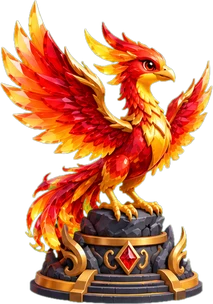
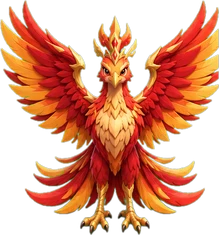
熔岩星換成五個熔岩神像（無底座），加岩漿裂紋心跳、火星、噴發、火山龜冒煙特效
Claude-Session: https://claude.ai/code/session_01E2utfFQBUZUAHLnSXfgdjb

diff --git a/components/city-scene.ts b/components/city-scene.ts
@@ -190,6 +190,7 @@ export function createCityScene(
     s.scale.set(w * ART_UNIT, h * ART_UNIT, 1);
     s.position.y = plinthOf(level, i);
     g.add(s);
+    g.userData.name = name;
     if (showcase) dressStage(g, level, w * ART_UNIT, h * ART_UNIT, plinthOf(level, i));
     const blob = new T.Mesh(new T.PlaneGeometry(w * ART_UNIT * 1.05, w * ART_UNIT * 0.8), new T.MeshBasicMaterial({ map: shadowTex, transparent: true, depthWrite: false, opacity: 0.55 }));
     blob.rotation.x = -Math.PI / 2;
@@ -383,6 +384,43 @@ export function createCityScene(
     x.stroke();
     return new T.CanvasTexture(c);
   })();
+  // 熔岩星: cracks of lava radiating out from under a statue (drawn white, tinted orange).
+  const crackTex = (() => {
+    const c = document.createElement("canvas");
+    c.width = c.height = 256;
+    const x = c.getContext("2d")!;
+    x.strokeStyle = "rgba(255,255,255,1)";
+    x.shadowColor = "rgba(255,255,255,1)";
+    x.shadowBlur = 10;
+    x.lineCap = "round";
+    let seed = 7;
+    const rnd = () => ((seed = (seed * 9301 + 49297) % 233280) / 233280);
+    const branch = (px: number, py: number, a: number, len: number, wdt: number, depth: number) => {
+      let cx = px, cy = py;
+      x.lineWidth = wdt;
+      x.beginPath();
+      x.moveTo(cx, cy);
+      const steps = 4;
+      for (let k = 0; k < steps; k++) {
+        a += (rnd() - 0.5) * 0.7;
+        cx += Math.cos(a) * (len / steps);
+        cy += Math.sin(a) * (len / steps);
+        x.lineTo(cx, cy);
+      }
+      x.stroke();
+      if (depth > 0) {
+        branch(cx, cy, a + 0.5, len * 0.55, wdt * 0.6, depth - 1);
+        branch(cx, cy, a - 0.5, len * 0.5, wdt * 0.6, depth - 1);
+      }
+    };
+    for (let k = 0; k < 7; k++) branch(128, 128, (k / 7) * Math.PI * 2 + rnd() * 0.4, 62, 7, 1);
+    const g = x.createRadialGradient(128, 128, 0, 128, 128, 40);
+    g.addColorStop(0, "rgba(255,255,255,0.9)");
+    g.addColorStop(1, "rgba(255,255,255,0)");
+    x.fillStyle = g;
+    x.fillRect(0, 0, 256, 256);
+    return new T.CanvasTexture(c);
+  })();
   // An aurora curtain: soft vertical streaks fading at top and bottom.
   const auroraTex = (() => {
     const c = document.createElement("canvas");
@@ -482,7 +520,7 @@ export function createCityScene(
     return new T.CanvasTexture(c);
   })();
   const STAGE_COLOUR = [0xffffff, 0xb9a8ff, 0x58c8ff, 0xa45cff, 0xffc21a];
-  type Aura = { obj: any; kind: "ring" | "halo" | "beam" | "mote" | "steam" | "spark" | "jelly" | "sprinkle" | "bubble" | "glint" | "dust" | "snow" | "aurora"; base: number; phase: number; r?: number; y?: number; speed?: number; vx?: number; vy?: number };
+  type Aura = { obj: any; kind: "ring" | "halo" | "beam" | "mote" | "steam" | "spark" | "jelly" | "sprinkle" | "bubble" | "glint" | "dust" | "snow" | "aurora" | "ember" | "blob" | "smoke" | "crack"; base: number; phase: number; r?: number; y?: number; speed?: number; vx?: number; vy?: number };
   const auras: Aura[] = [];
   function dressStage(g: any, level: number, w: number, h: number, lift: number) {
     const colour = (theme.art?.stageColours ?? STAGE_COLOUR)[level - 1];
@@ -516,7 +554,17 @@ export function createCityScene(
     const candy = !!theme.art?.candy;
     const prism = !!theme.art?.prism;
     const frost = !!theme.art?.frost;
-    if (level >= (gears || candy || prism || frost ? 2 : 3)) {
+    const magma = !!theme.art?.magma;
+    if (magma && level >= 2) {
+      // Cracks of lava under the statue, throbbing like a heartbeat (no turning).
+      const size = r * (level >= 5 ? 3.2 : level >= 4 ? 2.8 : 2.4) * 0.7;
+      const crack = new T.Mesh(new T.PlaneGeometry(size, size), new T.MeshBasicMaterial({ map: crackTex, color: 0xff7a1a, transparent: true, depthWrite: false, blending: T.AdditiveBlending, opacity: 0.8 }));
+      crack.rotation.x = -Math.PI / 2;
+      crack.rotation.z = Math.random() * 6;
+      crack.position.y = 0.015;
+      g.add(crack);
+      auras.push({ obj: crack, kind: "crack", base: level >= 4 ? 1 : 0.75, phase: Math.random() * 6 });
+    } else if (level >= (gears || candy || prism || frost ? 2 : 3)) {
       const size = r * (level >= 5 ? 3.0 : level >= 4 ? 2.6 : 2.3) * (gears || candy || prism || frost ? 0.6 : 1);
       const ring = new T.Mesh(
         new T.PlaneGeometry(size, size),
@@ -555,7 +603,7 @@ export function createCityScene(
       auras.push({ obj: beam, kind: "beam", base: 0.3, phase: Math.random() * 6 });
     }
     // Sparkles circling (4: a few, 5: many).
-    const motes = candy || prism || frost ? 0 : level >= 5 ? 14 : level >= 4 ? 6 : level >= 3 ? 3 : 0;
+    const motes = candy || prism || frost || magma ? 0 : level >= 5 ? 14 : level >= 4 ? 6 : level >= 3 ? 3 : 0;
     for (let k = 0; k < motes; k++) {
       const m = new T.Sprite(new T.SpriteMaterial({ map: haloTex, color: colour, transparent: true, depthWrite: false, blending: T.AdditiveBlending, opacity: 0.9 }));
       m.scale.setScalar(0.07 + Math.random() * 0.06);
@@ -566,6 +614,47 @@ export function createCityScene(
     if (candy) addCandy(g, level, w, h);
     if (prism) addPrism(g, level, w, h);
     if (frost) addFrost(g, level, w, h);
+    if (magma) addMagma(g, level, w, h);
+  }
+  function addMagma(g: any, level: number, w: number, h: number) {
+    // Embers: little sparks of fire drifting up in a zigzag, flickering.
+    const embers = level >= 5 ? 14 : level >= 4 ? 9 : level >= 3 ? 5 : 0;
+    for (let k = 0; k < embers; k++) {
+      const m = new T.Sprite(new T.SpriteMaterial({ map: haloTex, color: k % 3 ? 0xff8a2a : 0xffd34d, transparent: true, depthWrite: false, blending: T.AdditiveBlending, opacity: 0 }));
+      g.add(m);
+      auras.push({ obj: m, kind: "ember", base: 1, phase: Math.random(), r: (Math.random() - 0.5) * w * 1.1, y: h * (0.8 + Math.random() * 0.5), speed: 0.2 + Math.random() * 0.15, vx: Math.random() * 6 });
+    }
+    // Eruptions (4 up): every few seconds lava bursts up out of the cracks in blobs that arc and fall back.
+    if (level >= 4) {
+      const blobs = level >= 5 ? 9 : 6;
+      const every = 3.2 + Math.random() * 1.6, start = Math.random() * every;
+      for (let k = 0; k < blobs; k++) {
+        const m = new T.Sprite(new T.SpriteMaterial({ map: haloTex, color: k % 2 ? 0xff5a10 : 0xffb030, transparent: true, depthWrite: false, blending: T.AdditiveBlending, opacity: 0 }));
+        g.add(m);
+        const a = (k / blobs) * Math.PI * 2 + Math.random() * 0.5;
+        auras.push({ obj: m, kind: "blob", base: 1, phase: start, speed: every, r: Math.cos(a) * (0.6 + Math.random() * 0.6), vx: Math.sin(a) * (0.6 + Math.random() * 0.6), vy: 2.2 + Math.random() * 1.4, y: 0.12 + Math.random() * 0.08 });
+      }
+    }
+    // The turtle's volcano smokes and glows at the top (3 up).
+    const vent = theme.art?.vent;
+    const name = g.userData.name as string;
+    if (vent && name === vent.name && level >= 3) {
+      const [u, v] = vent.at[level - 3];
+      const flip = theme.art?.mirror?.includes(name) ? -1 : 1;
+      const anchor = new T.Group();
+      anchor.userData.off = [(u - 0.5) * w * flip, (1 - v - 0.04) * h];
+      g.add(anchor);
+      pins.push(anchor);
+      const glow = new T.Sprite(new T.SpriteMaterial({ map: haloTex, color: 0xff6a1a, transparent: true, depthWrite: false, blending: T.AdditiveBlending, opacity: 0.8 }));
+      glow.scale.setScalar(w * 0.32);
+      anchor.add(glow);
+      auras.push({ obj: glow, kind: "crack", base: 0.9, phase: 0 });
+      for (let k = 0; k < 6; k++) {
+        const m = new T.Sprite(new T.SpriteMaterial({ map: haloTex, color: k % 2 ? 0x8f847c : 0xb8aea6, transparent: true, depthWrite: false, opacity: 0 }));
+        anchor.add(m);
+        auras.push({ obj: m, kind: "smoke", base: 0.95, phase: k / 6, r: w * 0.16, y: h * 0.55, speed: 0.22 });
+      }
+    }
   }
   function addFrost(g: any, level: number, w: number, h: number) {
     // Snow drifting down round the statue, each flake turning and swaying.
@@ -663,6 +752,31 @@ export function createCityScene(
       } else if (a.kind === "beam") {
         a.obj.material.opacity = a.base * (0.7 + 0.3 * Math.sin(t * 2.4 + a.phase));
         a.obj.rotation.y = t * 0.4;
+      } else if (a.kind === "crack") {
+        // A heartbeat: two quick throbs, then a rest.
+        const beat = (t * 0.9 + a.phase) % 1;
+        const pulse = Math.max(Math.exp(-((beat - 0.1) ** 2) / 0.002), 0.7 * Math.exp(-((beat - 0.28) ** 2) / 0.002));
+        a.obj.material.opacity = a.base * (0.45 + 0.55 * pulse);
+      } else if (a.kind === "ember") {
+        const life = (t * a.speed! + a.phase) % 1;
+        a.obj.position.set(a.r! + Math.sin(life * 9 + a.vx!) * 0.1, life * a.y!, 0.06);
+        a.obj.scale.setScalar(0.07 * (1 - life * 0.6));
+        a.obj.material.opacity = (1 - life) * (0.6 + 0.4 * Math.sin(t * 25 + a.vx! * 3));
+      } else if (a.kind === "blob") {
+        const since = (t + a.phase) % a.speed!;
+        const s2 = since * 1.1;
+        if (s2 < 1.2) {
+          const y = a.y! + a.vy! * s2 - 4.5 * s2 * s2;
+          a.obj.position.set(a.r! * s2, Math.max(0.02, y), a.vx! * s2);
+          a.obj.scale.setScalar(0.16 * (1 - s2 * 0.4));
+          a.obj.material.opacity = y > 0.02 ? 1 : 0;
+        } else a.obj.material.opacity = 0;
+      } else if (a.kind === "smoke") {
+        const life = (t * a.speed! + a.phase) % 1;
+        a.obj.position.set(Math.sin(life * 4 + a.phase * 6) * a.r! * 0.6, life * a.y!, 0);
+        a.obj.scale.setScalar(a.r! * (1 + life * 3));
+        a.obj.material.opacity = a.base * Math.sin(life * Math.PI) * (1 - life * 0.4);
+        a.obj.material.rotation = life * 1.5 + a.phase * 6;
       } else if (a.kind === "snow") {
         const life = (t * a.speed! + a.phase) % 1;
         a.obj.position.set(a.r! + Math.sin(t * 0.9 + a.phase * 7) * 0.12, a.y! * (1 - life), 0.08);
@@ -738,7 +852,8 @@ export function createCityScene(
     camUp.setFromMatrixColumn(camera.matrixWorld, 1);
     camBack.setFromMatrixColumn(camera.matrixWorld, 2);
     const workers = [...crews.values()].flatMap((crew) => crew.men.map((w) => w.s));
-    for (const o of [...spinners, ...lamps, ...workers]) {
+    for (let k = pins.length - 1; k >= 0; k--) if (!pins[k].parent?.parent) pins.splice(k, 1);
+    for (const o of [...spinners, ...lamps, ...workers, ...pins]) {
       const [dx, dy] = o.userData.off as [number, number];
       const parent = o.parent;
       if (!parent) continue;
@@ -753,6 +868,8 @@ export function createCityScene(
   }
   const lampTex = soft("rgba(255,255,255,1)", "rgba(255,255,255,0)");
   const lamps: any[] = [];
+  /** Things pinned to a spot on a statue's picture (the turtle's volcano top). */
+  const pins: any[] = [];
 
   function building(level: number, i = 0): any {
     if (theme.art && level > 0) return artBuilding(i, level);

diff --git a/lib/themes.ts b/lib/themes.ts
@@ -54,6 +54,10 @@ export type ThemeArt = {
   prism?: boolean;
   /** 冰晶星: a turning snowflake emblem, snow drifting down and an aurora veil behind the top statues. */
   frost?: boolean;
+  /** 熔岩星: glowing lava cracks under each statue, embers rising and eruptions of lava from level 4. */
+  magma?: boolean;
+  /** A smoking vent on one statue (the turtle's volcano) for levels 3–5: [across, down] in its picture. */
+  vent?: { name: string; at: readonly (readonly [number, number])[] };
 };
 
 export type Theme = {
@@ -243,20 +247,30 @@ export const LAVA: Theme = {
   sky: "#c2361e",
   art: {
     dir: "/art/city/lava",
-    names: ["house", "forge", "phoenix", "spa", "temple"],
+    // Sky's five lava statues (2026-10-08): blacksmith back left, phoenix back centre (front-facing), gladiator
+    // back right, volcano turtle front right, rhino front left. Every side picture faces left, so the two on the left
+    // are mirrored. Lava effects (glowing cracks, embers, eruptions, the turtle's smoking volcano) are code.
+    names: ["smith", "phoenix", "gladiator", "turtle", "rhino"],
     space: true,
     island: true,
+    showcase: true,
+    mirror: ["smith", "rhino"],
+    based: ["smith", "phoenix", "gladiator", "turtle", "rhino"],
+    stageColours: [0xffffff, 0xffd0a0, 0xffa060, 0xff7030, 0xffc21a],
+    magma: true,
+    // Where the turtle's volcano top is in its level 3–5 pictures (across, down), for the smoke.
+    vent: { name: "turtle", at: [[0.631, 0.03], [0.559, 0.02], [0.54, 0.015]] },
     islandDepth: 3.6,
     islandCore: 0x2a1410,
     islandTrim: 0x5a2e1c,
     boatAspect: 1,
     gullAspect: 1,
     sizes: {
-      house: [[113, 108], [161, 181], [198, 265], [266, 340], [300, 419]],
-      forge: [[109, 90], [164, 174], [212, 229], [274, 297], [300, 389]],
-      phoenix: [[105, 129], [113, 173], [141, 228], [213, 304], [300, 428]],
-      spa: [[96, 65], [124, 93], [208, 178], [212, 200], [300, 263]],
-      temple: [[108, 104], [160, 153], [187, 221], [262, 271], [300, 356]],
+      smith: [[79, 96], [125, 202], [197, 316], [255, 337], [285, 455]],
+      phoenix: [[80, 97], [132, 151], [240, 236], [296, 317], [405, 421]],
+      gladiator: [[91, 83], [94, 160], [158, 262], [238, 386], [270, 454]],
+      turtle: [[65, 79], [124, 93], [174, 156], [238, 264], [315, 381]],
+      rhino: [[100, 95], [147, 141], [217, 199], [290, 308], [330, 369]],
     },
   },
 };

diff --git a/public/sw.js b/public/sw.js
@@ -1,5 +1,5 @@
 // 大富翁 service worker: keeps the app shell and art so the board opens without a network.
-const CACHE = "dafuweng-v240";
+const CACHE = "dafuweng-v241";
 const SHELL = [
   "/",
   "/manifest.webmanifest",
